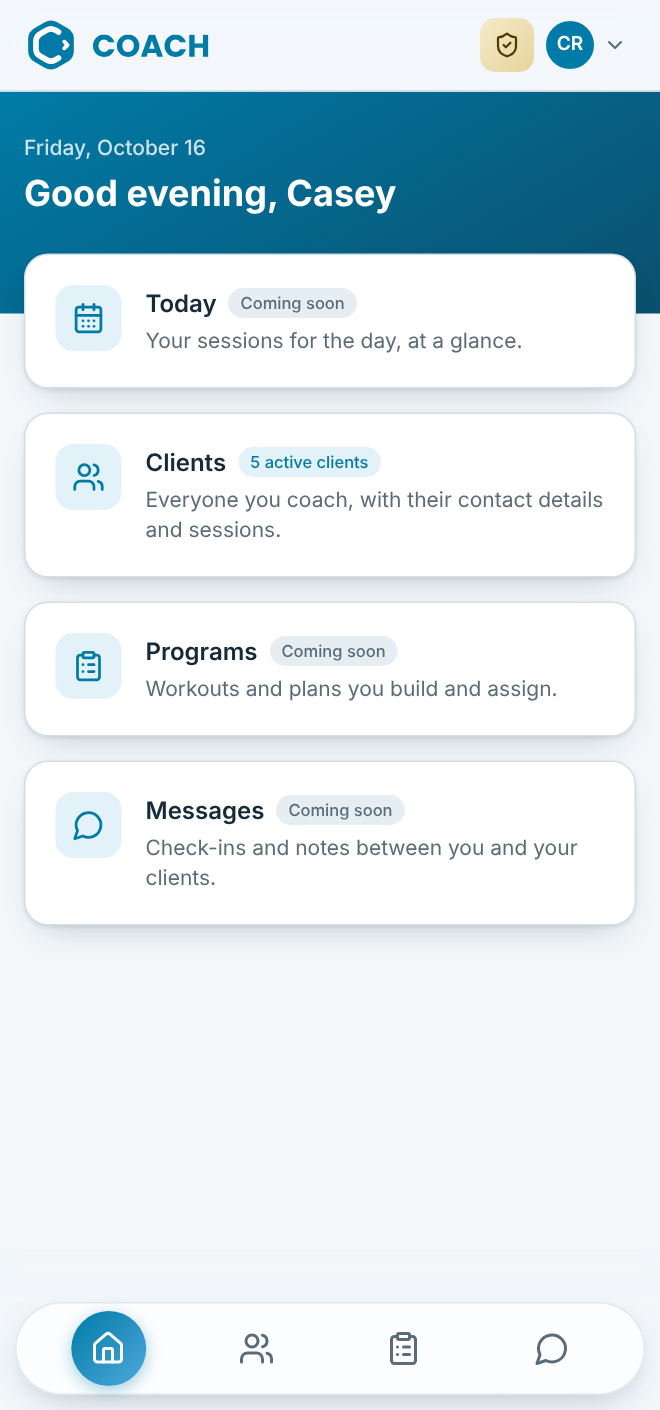
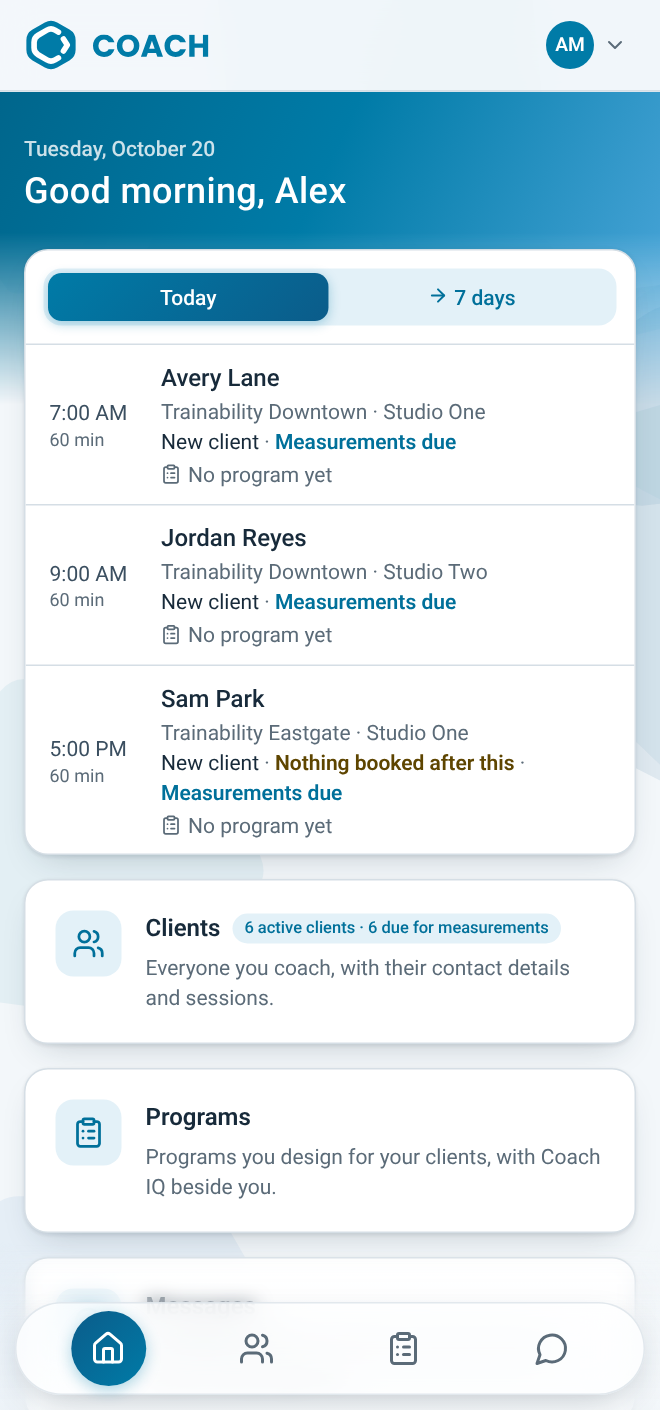
Retake the manual's pictures and settle "No sessions yet" (build 1.0.172)
Run 1's last two. Studio works a client's Last session out from their own
appointments, the same ones Today reads, so the mismatch was the run's
stand-in. A stand-in Studio in Studio's shapes (scripts/standin-studio.mjs)
let npm run screenshots retake all six pictures in the cloud. Found in
testing is empty.

Claude-Session: https://claude.ai/code/session_011wLeBVBdWHHBTQqy5U2jRk

diff --git a/NEURALBRAIN.md b/NEURALBRAIN.md
@@ -420,6 +420,7 @@ put-away programs with no way back, the body drawing's dark caption), about 35
 medium, the manual's 40 points and the smaller ones, two questions and 14
 ideas — all in BRAINSTORM.md, Found in testing, Run 1.
 
+- **M-1, the manual's pictures, and U-22 / D-16, "No sessions yet" while Home shows them trained today** (both done 20 Oct 2026; Glenn: "do everything on found in testing"). Build 1.0.172. The last two of Run 1, both marked as needing the Mac and Studio's fixture; done in the cloud instead. **U-22 and D-16, from Studio's code** (read-only clone, main at 668dd9f): a client's `lastSessionOn` is Studio's (server/people.js, the client list): `MAX(CASE WHEN date <= today THEN date END)` over their appointments that are scheduled or completed, with any trainer, and `latestSessionOn` the latest of all. Home's Today reads the same appointments (/api/appointments). So a client booked or trained today reads *Last session* today on their page and the list while Today shows them; with the real Studio the two can't disagree. The run's stand-in Studio sent a fixed client list that ignored its own appointments, which is all the finding was. Nothing in Coach changed. **A stand-in Studio, kept**: `scripts/standin-studio.mjs` (new, port 4242): one trainer, fixture-style (*Alex Morgan*, alex@fixture.test / fixture-pass, role trainer, never a real person), six clients (*Avery Lane*, *Jordan Reyes*, *Sam Park*, *Priya Shah*, *Morgan Ellis*, *Casey Brooks*), a week of sessions around today (three today, one cancelled, two completed before), two places (*Trainability Downtown*, *Trainability Eastgate*) with rooms; the answers in Studio's shapes (auth.js `publicUser`, people.js's client row with `lastSessionOn` worked out from the sessions as Studio does, /api/appointments, /api/locations), and door, login, me, logout and the look routes. Checked against it: Avery, Jordan and Sam, booked today, read *Last session October 20* on Clients and on Avery's page, and are on Today; Morgan, with only a session to come, *First session booked for October 24*; Casey *No sessions yet*. **M-1**: `npm run screenshots` run against it (SHOT_URL the scratch Coach, CHROME_PATH the session's Chromium), all six pictures retaken in place of build 1.0.0's: the sign-in screen, Home with Today's three sessions and the Clients and Programs cards, the apps panel with Coach and Studio (the new icon), the account menu (*Trainer*, *Version 1.0.172*), Clients, and Avery's Details. A first take showed *Version 1.0.170*: the page had been built before the version was raised; built again after it. `npm run check-docs`: 6 images, all consistent. Both items left BRAINSTORM's Found in testing, which is now empty.
 - **A-14, photos already sent when a client stops agreeing** (decided and built 19 Oct 2026; Glenn, asked whether photos already sent in messages should stay when a client stops agreeing: "it should be hidden"). Build 1.0.154. Before, **… no longer agrees** deleted every progress photo set but left the copies on sent messages readable by trainer and client. Now, while a client has no agreement to photos, the photos on their sent messages (a photos attachment, and a progress report's photos) are hidden from both: `messages.photosHidden(clientId)` (no row in `coach_photo_consent`); `shapeAttachment` takes `hidden` and then gives the sets with no angles and no links, marked `hidden: true`, so neither the trainer's page nor the client link (`forClient`, which signs a link for each angle) has any; `messagesOf` asks once per client in the conversation, and `attachmentShape` (now async) per attachment; the trainer's photo route and the client's signed photo route answer 404 while hidden. The files are kept, not deleted, so if the client agrees again the photos sent before show again (Glenn, asked after, 19 Oct 2026: "Keep them hidden, they come back if they agree again"). On screen (`MessagesTab.jsx`) a photos message shows *Progress photos hidden* / *Avery no longer agrees to progress photos.*, a report's card says *photos hidden*, and their printed pages (`PrintPhotos.jsx`, `PrintReport.jsx`) say the same instead of the photos. The question **… no longer agrees** asks now ends *Photos already sent in a message are hidden too, for you and for them.* (it said they stay). MANUAL 4.9 says so. Tested with the stand-in Studio: Avery's report photo answered 200 to Glenn and to the client's signed link; after **… no longer agrees** both answered 404 and both views of the report had `hidden: true` and no links; agreeing again brought the report's photo back (200); a photos message sent then and hidden again showed *Progress photos hidden* in Avery's conversation, iPhone 13.
 - **I-14, logging what was done in a session** (built 19 Oct 2026; Glenn, offered the run's ideas, chose "Session log (I-14)"; asked how much to write, "I can see different trainer may want to do different things, I'm torn between the 'each set' and the 'done or not' here", then offered both in one screen: "Tick, open for sets (Recommended)"; for its uses, "Last time, in the designer", "Coach IQ suggests the next load", "Estimated 1RMs from sets" and "Billy can read them"; who sees one, "Every trainer of the client (Recommended)"; its id tag "wkl"). Build 1.0.153. Studio has no workout logging, only a written note per session (its ScheduleTab.jsx, `SessionNotes`), so this is Coach's own. **Data**: `coach_workout_logs` (`server/db.js`, ids `wkl`, `server/ids.js` `workoutLog`), one row per session: the client, the trainer, the program and day (ids and names kept), the day it was done, the units it was typed in, notes, and `entries` as JSON, one per exercise: `{ peId, exerciseId, name, planned: { sets, reps, load, weightKg }, done, sets: null (as planned) or [{ reps, weightKg }], note }`; client and trainer ids follow a client moved into Studio and a linked Coach account (`coach-clients.moved`, `accounts.link`). **Shared rules** (`src/lib/workout-log.js`): `plannedOf` (a load's weight from "135 lb", "60 kg" or a 1RM's share), `setsToFill` (as many sets as planned, the first number of "3–4", at the top of the reps and the planned weight), `entryText` (*3 × 8 at 135 lb*, *5, 5, 4 at 200 lb*, *As planned: 3 × 8–12 at 135 lb*, *Not done*), `setsDone` (an entry's sets as numbers: its own, or the plan's when ticked and the plan has one number of reps and a weight) and `nextLoadKg` (the load principle's straight-line progression: every planned set done at the planned weight to the top of its reps, about 2.5% more, at least 5 lb or 2.5 kg). **Server** (`server/workout-logs.js`, routes in `server/index.js`): `GET/POST /api/clients/:client/sessions`, `PUT/DELETE /api/sessions/:id`; a session is logged from one of the trainer's own programs for the client, its entries checked against that program's day (names and plans taken from the program, not the page; reps whole, weights 0–600 kg, at most 12 sets, a day that has been); only the trainer who logged one may change or delete it (403 *Only the trainer who logged a session can change it.* / *…delete it.*). **New best 1RMs**: each library lift's best set of 10 reps or fewer, worked out by Brzycki as Fitness tests does, is kept as an estimated 1RM when it beats every 1RM the client has for it (note *From the session on 2026-10-19*, `data.fromSession`), and removed if the session is changed or deleted. **The designer** (`Designer.jsx`): **Log this session** under a day with exercises (not for a frozen program) opens `src/programs/LogSession.jsx`: the day, each exercise ticked as done as planned with its plan, untick for *Not done*, tap to open set by set (reps and weight boxes filled from the plan, **Another set**, the X to take one off), a note per exercise and for the session, **Save the session**, then the toast *Day A logged.*; under each exercise, *Last time (Oct 19): 3 × 8 at 135 lb* (`programs.full`, `lastTime` from `workoutLogs.lastByExercise`, any trainer's) and, when every set was done, *Coach IQ: every set was done last time; try about 140 lb.* **The client's page** (`ClientPrograms.jsx`, `Sessions`): **Logged sessions** under the programs, newest first, *Next block, Day A · 3 of 3 done · logged by you*, opening to each exercise as it went and the notes, with **Change** and the bin (*Delete this session?*, which says a 1RM worked out from it goes too) for one's own. **Billy**: `client_progress` adds the latest 12 sessions, each exercise in `entryText`'s words with its note. MANUAL 4.3 and a new 5.7 say so. Tested with the stand-in Studio: a session with the back squat ticked as planned (3 × 8 at 135 lb) showed *Last time (Oct 17): As planned: 3 × 8 at 135 lb*; one with it opened at 5, 5, 4 at 200 lb added an estimated 1RM of 102.06 kg (beating 94.4) *From the session on 2026-10-19*, which went when that session was deleted; a day still to come was refused; Tess deleting Glenn's session was 403; on an iPhone 13, the Log Day A box with the squat opened set by set, the save and *Day A logged.*, the designer's *Last time (Oct 19): 3 × 8 at 135 lb* and *Coach IQ: every set was done last time; try about 140 lb.*, and Avery's Logged sessions with one opened.
 - **I-13, a progress report to send** (built 19 Oct 2026; Glenn, offered the run's ideas: "Progress report (I-13)"). Build 1.0.152. Studio's client page doesn't show Coach's attachments yet (its inbox isn't built), so a new kind needed nothing of Studio. A new attachment, `report`: in a conversation, the paperclip's **Progress report** (*First to latest*) attaches at once (`attachReport`, `MessagesTab.jsx`). `POST /api/attachments/report` (`server/index.js`) gathers, for a client on the trainer's list: the latest set of measurements against the first (with the height carried, for BMI and the Navy estimate, and the client's sex from Studio's gender), each fitness test's latest result against its first (one per series, as Fitness tests groups them), and, if the client agreed to photos, their first and latest progress photos; with none of the three, 400 *There's nothing to report for Sam yet: no measurements, fitness tests or progress photos.* `messages.reportAttachment` keeps it as a copy, as the others are (the photos linked in as the photos attachment's are, `copyPhotos`, shared with it now); the trainer sees its photos by `/api/attachments/:id/photo/:n/:angle` (which now takes a report), the client by signed links (`forClient`). In a thread it is a card, *Progress report · Oct 19* with what it holds (*measurements, 2 tests, photos*), which opens `/print/sent/<id>` as `src/clients/PrintReport.jsx`: Measurements (now and since the first), Fitness tests (latest, and since the first, or *Only one so far*), Progress photos (first and latest, angle by angle), black on white. MANUAL 7.3 says so. Tested with the stand-in Studio: Avery's report held her measurements (Oct 19 against Oct 10, with BMI and the Navy estimate), two 1RMs and her Oct 10 and Oct 19 photos; sent, the client's copy carried signed photo links that answered 200 image/jpeg; Sam's answered the nothing-to-report message; the printed page and the menu at phone width.

diff --git a/BRAINSTORM.md b/BRAINSTORM.md
@@ -31,26 +31,8 @@ up to have it done. Each says which run found it. Once fixed, it goes straight
 to [NEURALBRAIN.md](NEURALBRAIN.md#test-run-fixes) under **Test Run Fixes**,
 in that run's write-up._
 
-### Run 1 (19 Oct 2026, build 1.0.81)
-
-Six agents, each on its own copy of the app: two feature testers (A: clients
-and their records; B: programs, sign-in, menus and Billy) and four audits
-(D: design; U: ease of use; M: the manual; O and I: speed and ideas). Each
-item keeps the ids of the reports that found it. How the run was done is in
-[NEURALBRAIN.md](NEURALBRAIN.md#test-run-fixes), Run 1.
-
-**Low**
-
-- **The manual's pictures (M-1), Glenn's to do.** All six are build 1.0.0.
-  `npm run screenshots` works again (build 1.0.144); run it on the Mac against
-  Studio's fixture with SHOT_EMAIL and SHOT_PASSWORD in server/.env, then
-  `npm run check-docs`. The rest of the manual points are done.
-- **"No sessions yet" on the client while Home shows them trained today (U-22,
-  D-16)**: maybe the stand-in Studio; check against the fixture.
-
-**Questions for Glenn**
-
-None open: A-14 is decided, and the run's ideas built or moved to Ideas.
+Nothing waiting. Run 1's findings are all fixed, decided or moved to Ideas
+(NEURALBRAIN.md, Test Run Fixes, Run 1).
 
 ## Ideas
 

diff --git a/README.md b/README.md
@@ -169,7 +169,9 @@ As in Studio:
 - **`MANUAL.md`** — the user manual, step by step. After editing it, run
   `npm run manual` to refresh its copy at the bottom of `NEURALBRAIN.md`;
   `npm run check-docs` fails if the copy is behind or a picture is missing.
-  `npm run screenshots` retakes its pictures from the running app.
+  `npm run screenshots` retakes its pictures from the running app. Where
+  Studio's fixture can't run (a cloud session), `node scripts/standin-studio.mjs`
+  stands in for it with one fixture trainer; its comment says how.
 - **`CHANGELOG.md`** — what changed in each release, under its version and
   name (1.0 is Caesious).
 - **`BRAINSTORM.md`** — the working queue. Saying "brainstorm" means work
